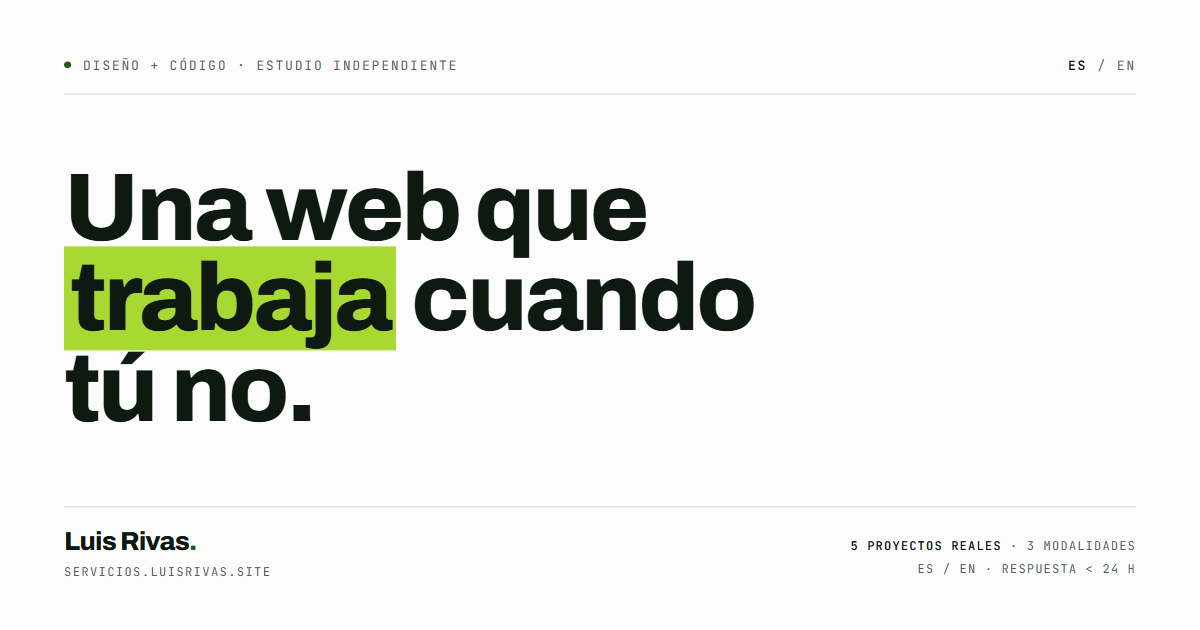
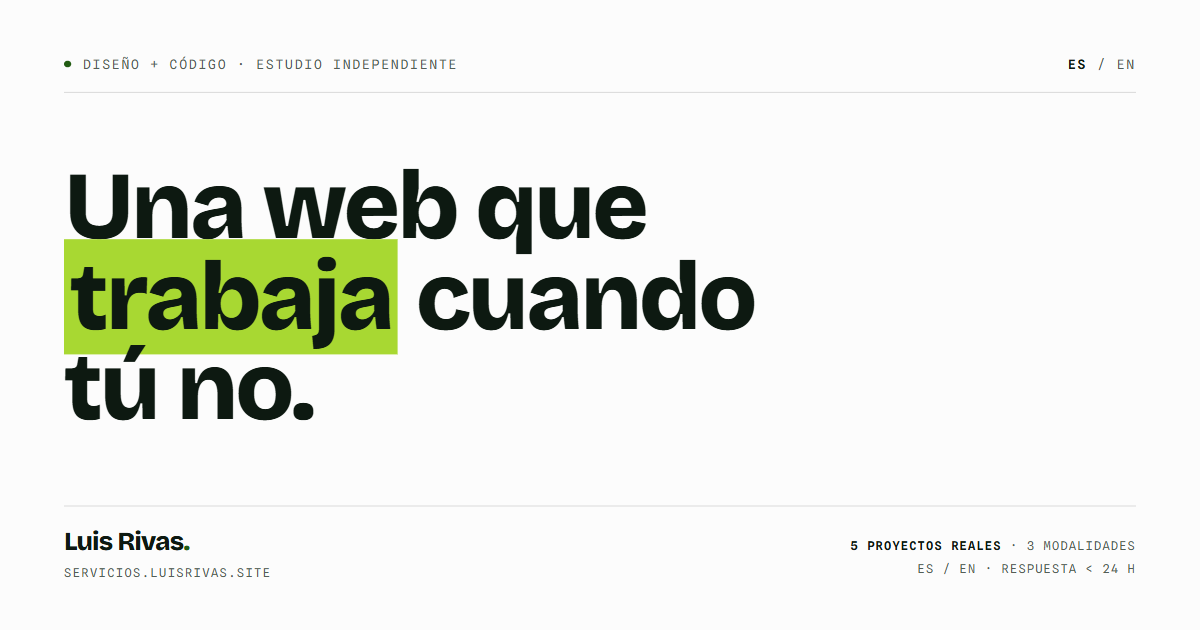
refactor(services): swap default sans stack for Bricolage, Hanken and Spline Sans Mono
Headlines move to Bricolage Grotesque at 700/800, running text to Hanken Grotesk and labels to Spline Sans Mono, dropping Geist, Archivo and JetBrains Mono from the package.

Hero balance applies below 48rem only, where greedy wrapping orphaned the last word. OG cards regenerated with the new display and mono faces.

diff --git a/apps/services/tokens.css b/apps/services/tokens.css
@@ -4,7 +4,7 @@
  *   oversized tight grotesque, one loud colour field, rules as structure.
  *   Not "elegant editorial": a weekly business magazine, flat and loud.
  * paper: oklch(99% 0 0) · ink: oklch(20% 0.024 155) · accent: oklch(82% 0.19 125)
- * display: Archivo · body: Geist · mono: JetBrains Mono
+ * display: Bricolage Grotesque · body: Hanken Grotesk · mono: Spline Sans Mono
  * axes: light / grotesk-sans / green-lime · studied: no
  * nav: N12 · footer: Ft1 · enrichment: none · context: explicit · v2.1.0
  * contrast: pass (40–41) · honest: pass (46) · chrome: pass (47)
@@ -38,9 +38,9 @@
   --color-success: oklch(45% 0.12 155);
 
   /* Type */
-  --font-display: "Archivo Variable", "Archivo", "Helvetica Neue", Arial, sans-serif;
-  --font-body: "Geist Variable", "Geist", ui-sans-serif, sans-serif;
-  --font-mono: "JetBrains Mono Variable", "JetBrains Mono", ui-monospace, monospace;
+  --font-display: "Bricolage Grotesque Variable", "Bricolage Grotesque", "Helvetica Neue", Arial, sans-serif;
+  --font-body: "Hanken Grotesk Variable", "Hanken Grotesk", ui-sans-serif, sans-serif;
+  --font-mono: "Spline Sans Mono Variable", "Spline Sans Mono", ui-monospace, monospace;
   --weight-display: 700;
   --weight-display-heavy: 800;
 

diff --git a/apps/services/src/styles/global.css b/apps/services/src/styles/global.css
@@ -2,7 +2,7 @@
  * Hallmark · macrostructure: Portfolio Grid · theme: custom (Lima Businessweek)
  * reference: Bloomberg Businessweek covers (2010–2018) — hard white stock,
  *   oversized tight grotesque, one loud colour field, rules as structure.
- * display: Archivo · body: Geist · mono: JetBrains Mono
+ * display: Bricolage Grotesque · body: Hanken Grotesk · mono: Spline Sans Mono
  * axes: light / grotesk-sans / green-lime · studied: no
  * nav: N12 · footer: Ft1 · enrichment: none · v2.1.0
  * contrast: pass (40–41) · honest: pass (46) · chrome: pass (47)
@@ -981,7 +981,7 @@ main {
   font-size: var(--text-display);
   letter-spacing: var(--tracking-display);
   line-height: var(--leading-tight);
-  text-wrap: balance;
+  text-wrap: pretty;
 }
 
 .hero__title mark {
@@ -990,6 +990,14 @@ main {
   color: var(--color-accent-ink);
   box-decoration-break: clone;
   -webkit-box-decoration-break: clone;
+}
+
+/* Greedy wrapping splits "trabaja cuando | tú no." on wide columns, but leaves
+   a one-word last line on narrow ones. Balance the lines only below 48rem. */
+@media (max-width: 47.99rem) {
+  .hero__title {
+    text-wrap: balance;
+  }
 }
 
 .hero__lede {
